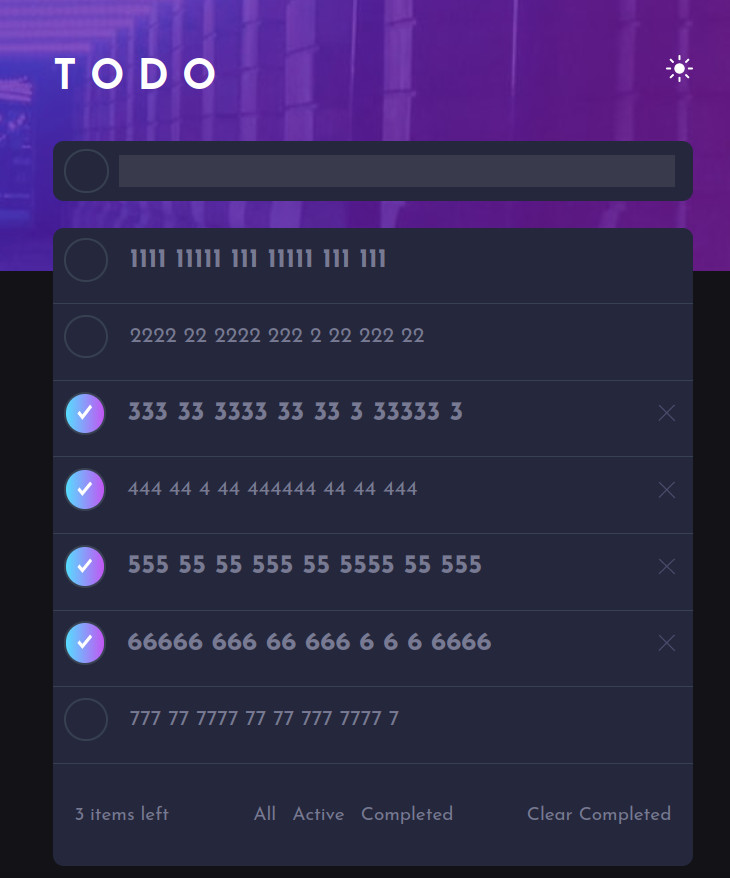
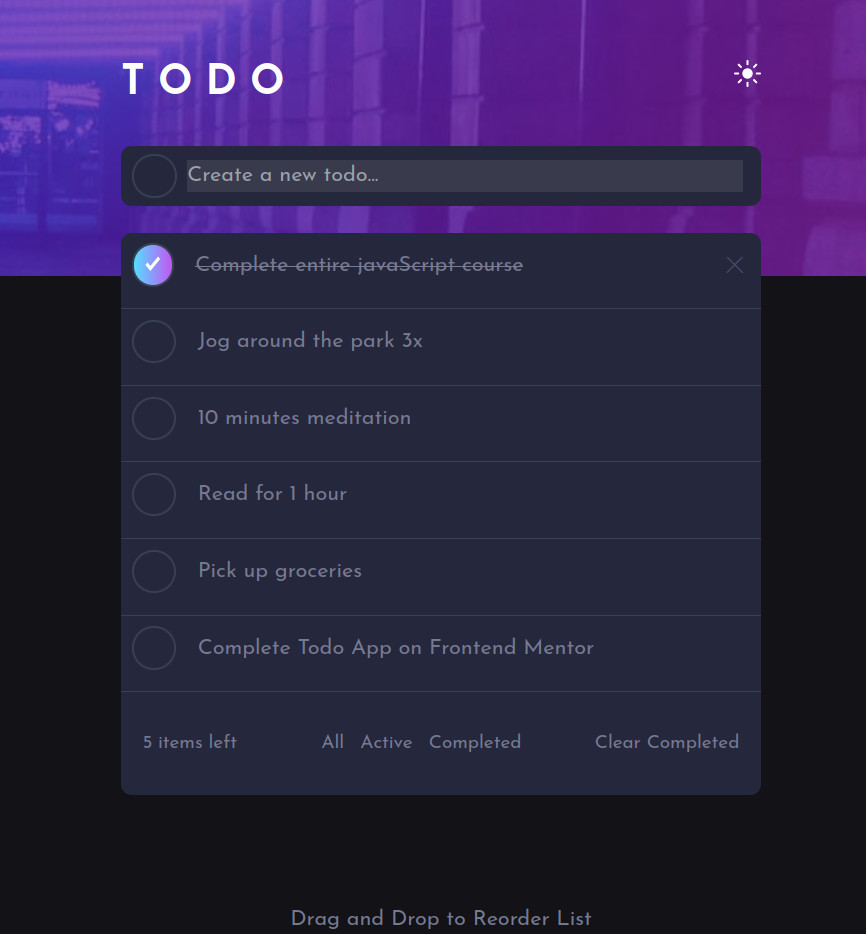
Fixing some issues and errors

diff --git a/app/page.jsx b/app/page.jsx
@@ -16,43 +16,37 @@ import cross from "../public/images/icon-cross.svg";
 const startTodos = [
   {
     id: "item-1",
-    content: "1111 11111 111 11111 111 111",
-    active: true,
-    completed: false,
+    content: "Complete entire javaScript course ",
+    active: false,
+    completed: true,
   },
   {
     id: "item-2",
-    content: "2222 22 2222 222 2 22 222 22",
+    content: "Jog around the park 3x",
     active: false,
     completed: false,
   },
   {
     id: "item-3",
-    content: "333 33 3333 33 33 3  33333 3",
-    active: true,
-    completed: true,
+    content: "10 minutes meditation",
+    active: false,
+    completed: false,
   },
   {
     id: "item-4",
-    content: "444 44 4 44 444444 44 44 444",
+    content: "Read for 1 hour",
     active: false,
-    completed: true,
+    completed: false,
   },
   {
     id: "item-5",
-    content: "555 55 55 555 55 5555 55 555",
-    active: true,
-    completed: true,
+    content: "Pick up groceries",
+    active: false,
+    completed: false,
   },
   {
     id: "item-6",
-    content: "66666 666 66 666 6  6 6 6666",
-    active: true,
-    completed: true,
-  },
-  {
-    id: "item-7",
-    content: "777 77 7777 77 77 777 7777 7",
+    content: "Complete Todo App on Frontend Mentor",
     active: false,
     completed: false,
   },
@@ -184,7 +178,6 @@ export default function Home() {
       className={`${theme} bg-t-dark_light flex h-full flex-col items-center justify-center w-full`}
     >
       {/* Header image */}
-      {console.table("backTodos", backTodos)}
       {theme === "dark" ? (
         <div
           className={`${theme} w-full h-52 bg-bg-mob-d md:bg-bg-dsk-d bg-no-repeat bg-cover`}
@@ -228,7 +221,7 @@ export default function Home() {
           <form onSubmit={handleSubmit} className="w-full">
             <input
               className={`${theme} ml-2 w-11/12 md:w-[95%] bg-t-vg_blue border-none`}
-              label="Create a new ToDo"
+              placeholder="Create a new todo..."
               type="text"
               value={newTodo}
               onChange={handleChange}
@@ -293,7 +286,9 @@ export default function Home() {
                               } w-full h-12 mb-2 mt-2 bg-t-c_blue text-t-dg_blue flex items-center ml-3 rounded-t-lg `}
                             >
                               <p
-                                className={`${theme} hover:cursor-crosshair hover:bg-t-hover_blue rounded-lg p-1`}
+                                className={`${theme} hover:cursor-crosshair hover:bg-t-hover_blue rounded-lg p-1
+                                ${todo.completed ? "line-through" : ""}
+                                `}
                                 onClick={() => toggleActive(todo)}
                               >
                                 {todo.content}

diff --git a/app/layout.js b/app/layout.js
@@ -1,5 +1,3 @@
-"use client";
-
 import "./globals.css";
 
 import Providers from "./Providers";
@@ -8,10 +6,10 @@ import { Josefin_Sans } from "next/font/google";
 
 const js = Josefin_Sans({ subsets: ["latin"] });
 
-// export const metadata = {
-//   title: "Todo DnD",
-//   description: "FrontEnd Mentor",
-// };
+export const metadata = {
+  title: "Todo DnD",
+  description: "FrontEnd Mentor",
+};
 
 export default function RootLayout({ children }) {
   return (
